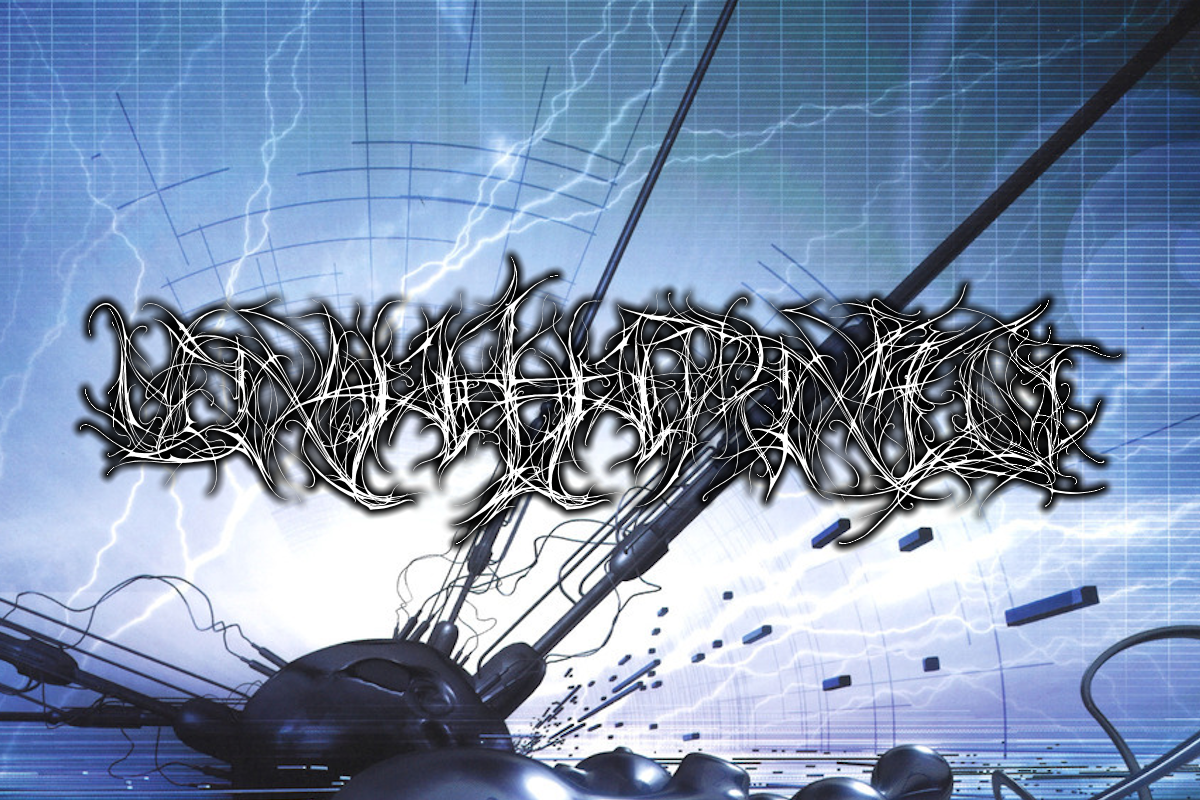
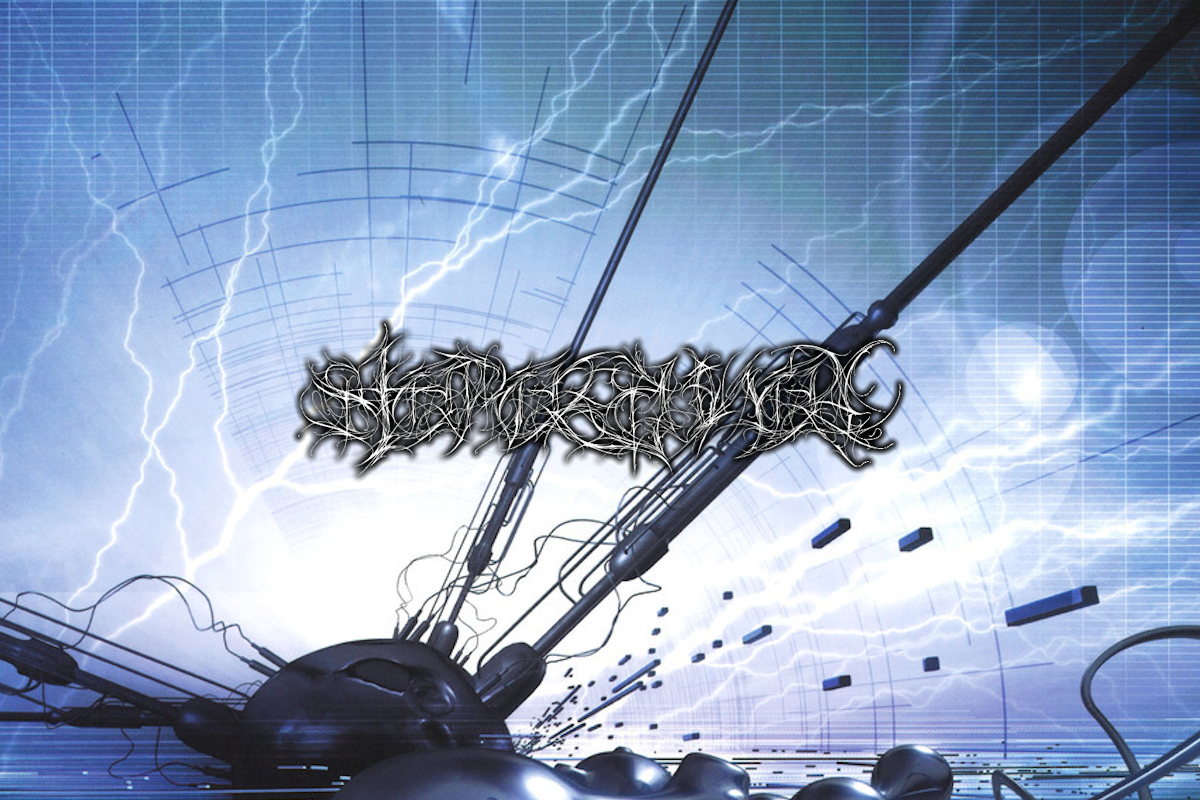
Fix

Changed region(s): [[0.0617, 0.3125, 0.9558, 0.6875]]

diff --git a/src/style/style.css b/src/style/style.css
@@ -7,12 +7,13 @@ background-size: cover;
 background-attachment: fixed;
 min-height: 100%;
 text-align: center;
+overflow-x: hidden;
 overflow: hidden;
 }
 body {
     margin: 0;
     min-height: 100vh;
-    overflow: hidden;
+    overflow-x: hidden;
 }
 @font-face {
     font-family: 'Ashborn'; 
@@ -26,18 +27,18 @@ h1{
 }
 
 .content {
-    height: 100vh;
+    height: 100%;
     display: grid;
     place-items: center;
-
     z-index: 5;
     position: relative;
 }
 
 .container {
     min-height: 100vh;
+    height: 100%;
     position: relative;
-    overflow: hidden;
+    overflow-x: hidden
 }
 .fuzzy-overlay {
             position: absolute;
@@ -58,4 +59,14 @@ h1{
             100% {
                 transform: translateX(-10%) translateY(-10%);
             }
+}
+@media (max-width: 768px) { 
+    body, .container {
+        
+        min-height: 100%;
+    }
+    .content {
+        min-height: 100%;
+        
+    }
 }

diff --git a/index.html b/index.html
@@ -5,9 +5,9 @@
  img 
  {box-shadow: 2px 2px 2px #000000; }
     </style>
-    <meta property="og:title" content="Unatarniq" />
+    <meta property="og:title" content="Storozevhoy" />
     <meta property="og:description" content="My little world" />
-    <meta property="og:image" content="https://i.imgur.com/NVveD0g.png" />
+    <meta property="og:image" content="https://i.imgur.com/IXHgQJh.png" />
     <link rel="stylesheet" href="src/style/style.css">
     <link rel="stylesheet" href="src/style/fog.css">
     <meta name="viewport" content="width=device-width, initial-scale=1.0">
